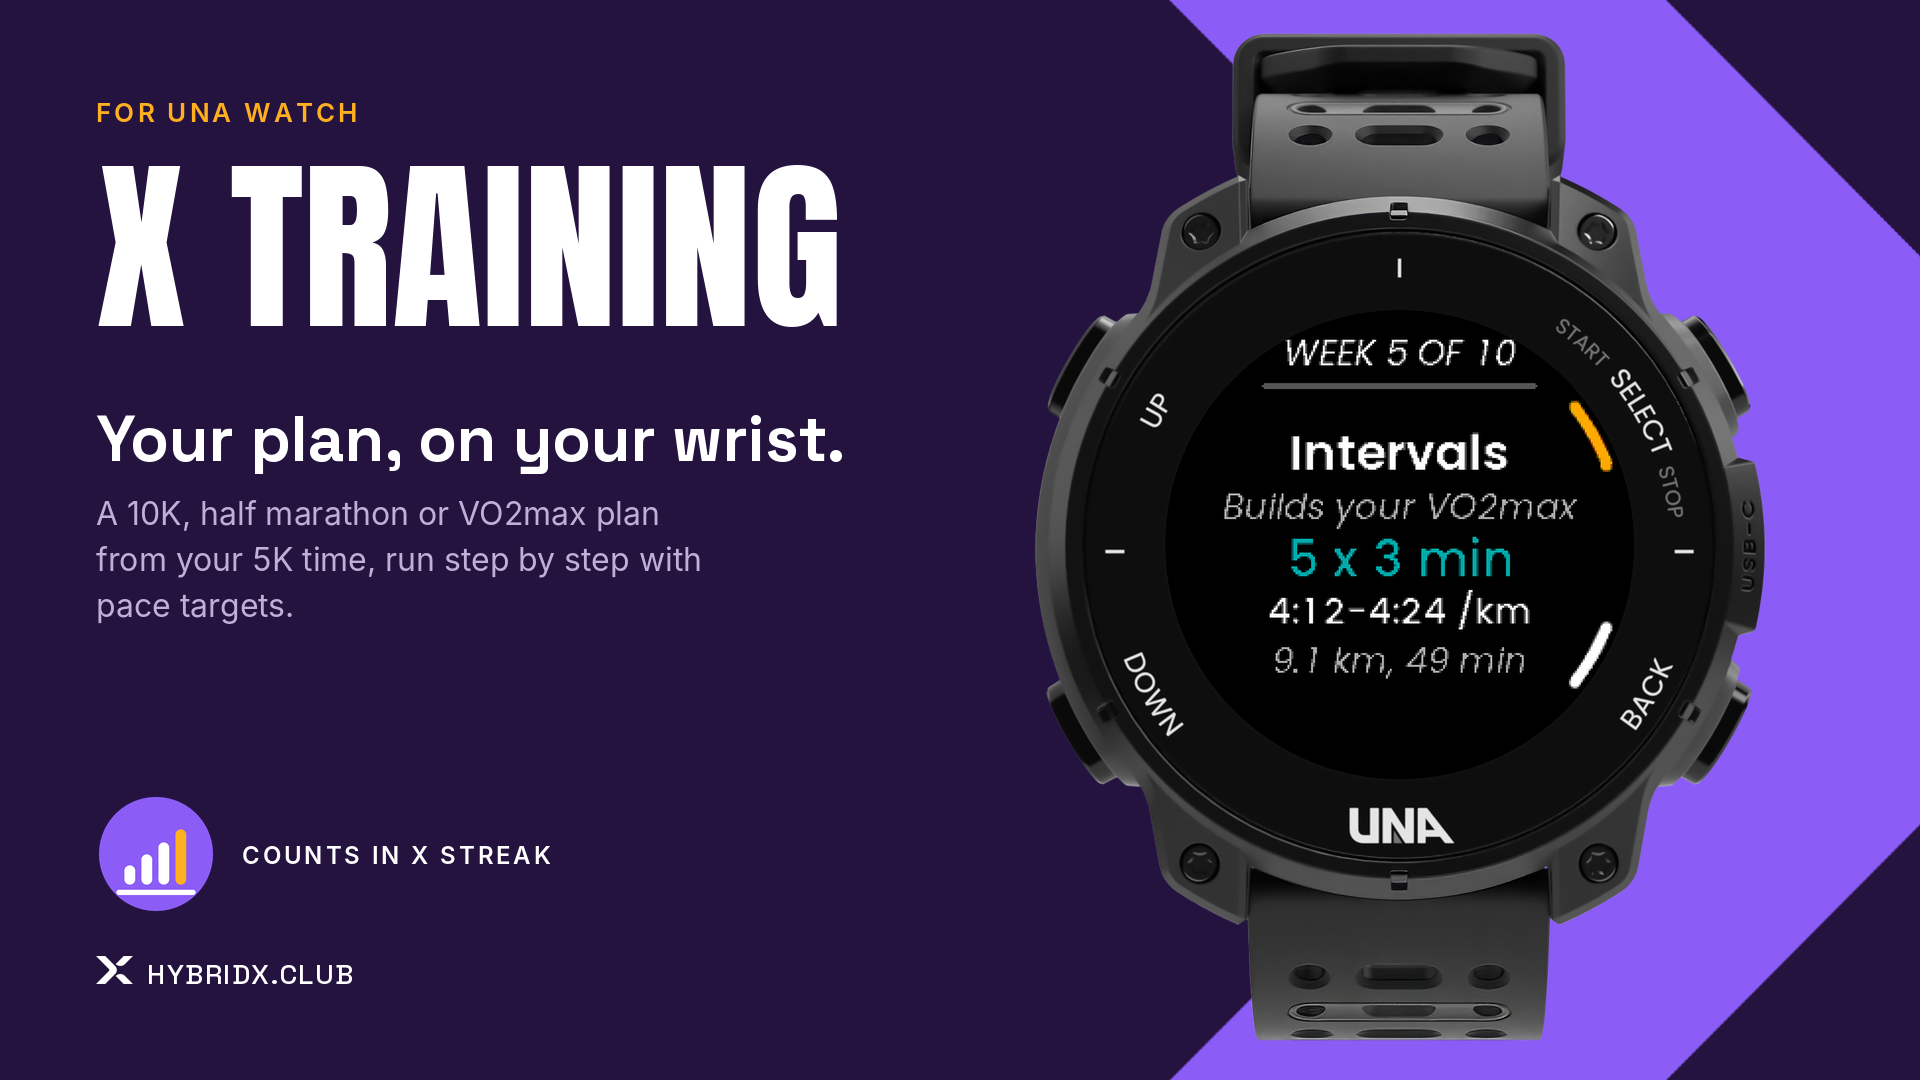
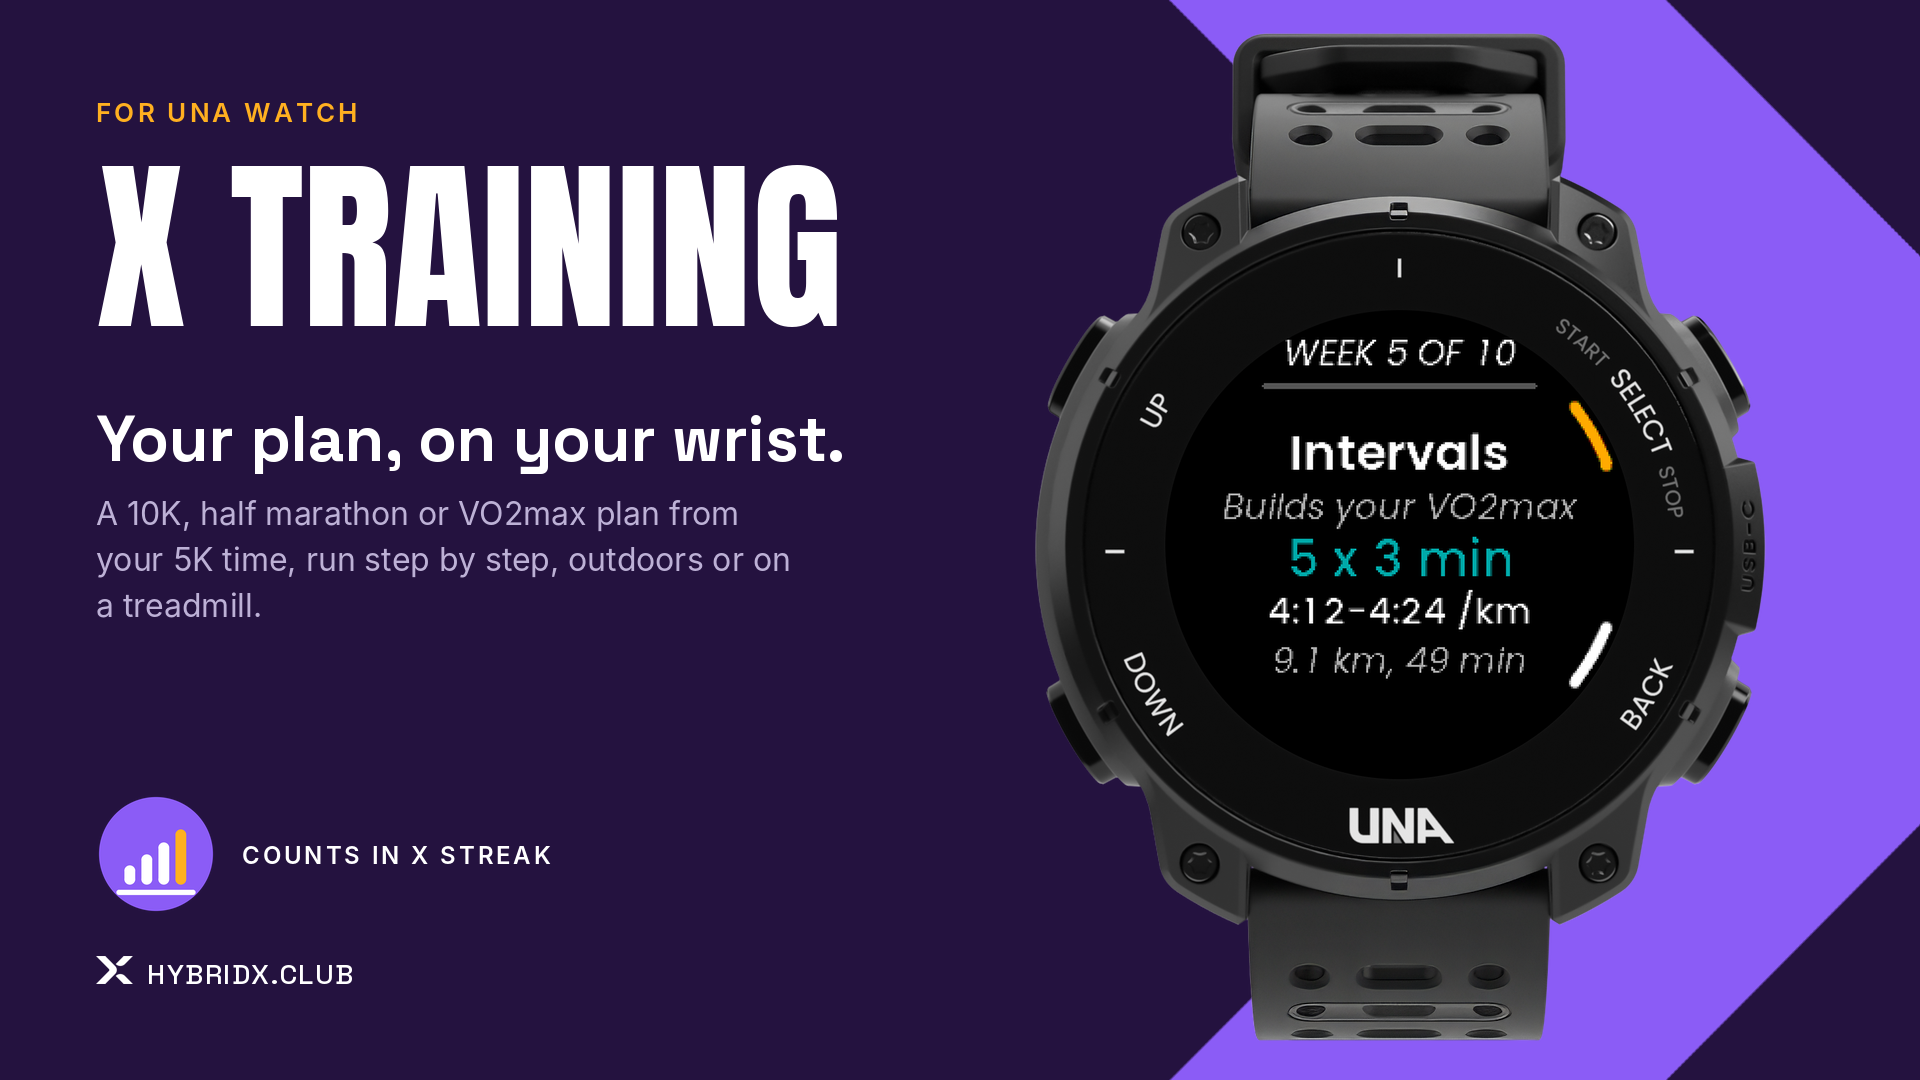
X Training 1.1.0: the store kit (nine previews, new cards, paste-ready listing)
Previews (Resources/previews, nine, all simulator captures): today, the pace gauge, a rep's result, this week, the
paces, Changes, a missed long run offered back, Today on a treadmill with its belt-speed target, and a 400 m rep at
15.1 km/h on a treadmill (the tm-* captures are from TREADMILL=1 sim_plan.sh). Store images (docs/store): the banner
and seven squares in the Cadence colourway, with new cards 'The plan learns' and 'Treadmill, too' (the contrast check
passes: 90 text blocks, none under 4.5:1). LISTING.md has the name, short and long description, the 1.1.0 release notes
and the upload order, ready to paste; STORE_RELEASE.md has the same text with the facts checked and what is not
claimed. The packager passes with the new previews (--expect-version 1.1.0).

Claude-Session: https://claude.ai/code/session_01CNkC8NChMcXmxTJN2uMAsg

Changed region(s): [[0.0312, 0.4583, 0.4062, 0.5806]]

diff --git a/hybridx-link/Tools/Brand/store_images.py b/hybridx-link/Tools/Brand/store_images.py
@@ -131,17 +131,21 @@ LISTINGS = {
     "training": {
         "title": "X TRAINING", "kicker": "For UNA Watch",
         "tagline": "Your plan, on your wrist.",
-        "body": "A 10K, half marathon or VO2max plan from your 5K time, run step by step with pace targets.",
-        "hero": "previews/2-today.png",
+        "body": "A 10K, half marathon or VO2max plan from your 5K time, run step by step, outdoors or on a treadmill.",
+        "hero": "previews/1-today.png",
         "cards": [
             (["TODAY'S", "SESSION,", "READY"], "Open the app and it is there: the session, its target pace and how long it takes.",
-             "previews/2-today.png", False),
+             "previews/1-today.png", False),
             (["PACES FROM", "YOUR 5K"], "Easy, threshold, interval and repetition paces from one time, checked against Daniels' tables.",
              "previews/5-paces.png", True),
             (["EVERY STEP", "TIMED"], "A pace gauge, a buzz when you drift, and each short rep judged on the next step's card.",
-             "previews/6-rep.png", False),
-            (["SEE THE", "WEEKS AHEAD"], "This week from Monday, and the whole plan with X Run's VO2max beside it.",
-             "previews/4-plan.png", True),
+             "previews/3-rep.png", False),
+            (["THE PLAN", "LEARNS"], "Miss a session and it is offered back. A weak week is repeated. Move, skip or pause from Changes.",
+             "previews/7-missed.png", True),
+            (["TREADMILL,", "TOO"], "Switch it on: today's session runs by cadence with no GPS, and the target is the belt speed.",
+             "previews/8-treadmill.png", False),
+            (["SEE THE", "WEEK AHEAD"], "This week from Monday, each day marked as the week goes.",
+             "previews/4-week.png", True),
         ],
     },
     "streak": {

diff --git a/hybridx-link/docs/STORE_RELEASE.md b/hybridx-link/docs/STORE_RELEASE.md
@@ -330,16 +330,18 @@ turbo. Counts in X Streak.
 
 **Not claimed:** power, cadence or wheel speed.
 
-### X Training (a new listing, 16 November 2026)
+### X Training (a new listing, 16 November 2026; 1.1.0 text, 17 November 2026)
 
 **App ID:** `C790FB2FDF322688` (the portal's, Jon, 16 November 2026; in the CMake file, the
-manifest and the simulator). **Tag:** `training-v1.0.0`. **Package:** `HybridXTraining-<v>.zip`
-(`training-store-zip`). **Images:** `hybridx-training/docs/store/`, in the **Cadence** colourway.
+manifest and the simulator). **Tags:** `training-v1.0.0` (published), `training-v1.1.0` (the update).
+**Package:** `HybridXTraining-<v>.zip` (`training-store-zip`). **Images:** `hybridx-training/docs/store/`, in the
+**Cadence** colourway; the paste-ready text and the upload order are in `hybridx-training/docs/store/LISTING.md`
+(keep the two in step).
 
 **Short description:** Training plans on your wrist: a 10K, half marathon or VO2max block from
-your 5K time, run step by step. Counts in X Streak.
+your 5K time, outdoors or on a treadmill. Counts in X Streak.
 
-**Longer description:**
+**Longer description (1.1.0):**
 
 > Your plan, on your wrist.
 >
@@ -349,12 +351,22 @@ your 5K time, run step by step. Counts in X Streak.
 > - **Today's session is ready:** its target pace, distance and time, and what it builds. Press
 >   R1 and it runs step by step: a pace gauge, a buzz when you drift out of range, lead-in beeps,
 >   and each short rep judged on the next step's card.
+> - **The plan learns from what you do:** a session you miss is noted. A missed key session takes a
+>   later quality session's place, a week you mostly missed is repeated, and a missed long run is
+>   offered back the next day. **Changes** moves tomorrow's session to today (or today's to
+>   tomorrow), skips a session, pauses the plan, or ends it.
+> - **Time trials and races update your paces:** after a 5K time trial or a race the watch works out
+>   the 5K it means. Faster times are used from your next run; slower ones, or a big jump, ask first.
+> - **On a treadmill too:** with the Treadmill switch on, today's session runs as UNA's treadmill mode
+>   does: no GPS, speed and distance from your cadence, and the console's distance asked for after you
+>   save. Where a step has a set speed the watch assumes the belt is at it, so a 400 m rep ends after the
+>   time that takes; targets show as belt speeds (km/h or mph).
 > - **Paces from your 5K:** easy, threshold, interval and repetition, with predicted 10K and
 >   half times. Worked out with Daniels' running tables, and checked against them.
 > - **This week and the whole plan:** seven days from Monday with their marks, the weeks by
->   phase, and your progress. Plan changes can be made on the watch too.
-> - Records every run as a normal run: GPS, heart rate, laps (one per step), cadence and step
->   length, and the run detail pages. Syncs to the UNA app and Strava.
+>   phase, and your progress.
+> - Records every run as a normal run: GPS (or the treadmill), heart rate, laps (one per step), cadence and
+>   step length, and the run detail pages. Syncs to the UNA app and Strava.
 > - Counts in **X Streak**, with its training load. Shows X Run's VO2max on the plan screen, and
 >   feeds X Run's VO2max with your runs.
 >
@@ -367,12 +379,17 @@ your 5K time, run step by step. Counts in X Streak.
 - **Zone alerts, easy steps "too fast" only, the rep judging, the held R2:** TP3, NOTES.
 - **Streak and X Run:** `act_training.json` and `training_vo2_*.json` (NOTES "TP4"); passed the
   family check on 16 November 2026.
+- **The plan's memory** (missed sessions, the long-run offer, repeated weeks, moves, skip, pause, recalibration):
+  `PlanRules`, its host tests and the 19 `plan_sim` scenarios Jon agreed on 17 November (NOTES "TP5"); the
+  screens in the simulator.
+- **Treadmill sessions:** `PlanBuilder`'s belt speeds (host-tested for every session and level); in the simulator
+  a 5 x 400 m session took 95 s and 400.0 m a rep and 164 s and 400.0 m a jog, ten laps in all, and the `.fit` is a
+  treadmill file with no positions and the entered distance (NOTES "Treadmill sessions").
 
-**Not claimed yet:** missed-session handling, offers, moves, pauses and recalibration after a time
-trial (TP5: built on 16 November 2026 and simulator-checked, to be claimed once Jon has seen them on
-the watch, then added to the description above); **treadmill sessions** (today's session with the Treadmill
-switch on: cadence speed and distance, the belt assumed at each step's designated speed, the console's distance
-after Save; built on 16 November 2026 and simulator-checked, to be claimed once Jon has seen it on the watch). The glance is its own listing (below), built in TP6.
+**Not claimed:** that the cadence-derived speed matches your belt (it is an estimate until you enter the console's
+distance, and learns from runs of 2 km or more), or that a treadmill time trial or race updates your paces (it does
+not). **Not yet seen on a watch** at the time of writing (Jon tests 17 November): the plan's memory and the treadmill;
+change the text above if the watch says otherwise. The glance is its own listing (below), built in TP6.
 
 ### X Training Glance (TP6: built, not yet on the store)
 
@@ -481,5 +498,6 @@ rules on 17 November. Its "what's new" for the portal:
 >   time its distance takes; targets show as belt speeds (km/h or mph).
 > - Getting ready for a glance that shows today's session (a separate listing, to follow).
 
-The long description above is unchanged until Jon has seen these on the watch (the plan's memory and the
-treadmill sessions are "not claimed yet" above; add them to the description once he has).
+The X Training long description (above, "1.1.0 text") now includes the plan's memory and the treadmill sessions. It
+was written on 17 November before Jon's watch test: check it against what the watch does, and the store images
+(`hybridx-training/docs/store/`, nine previews in `Resources/previews/`) were made on the same day.

diff --git a/hybridx-training/docs/store/LISTING.md b/hybridx-training/docs/store/LISTING.md
@@ -1,0 +1,65 @@
+# X Training 1.1.0: the store listing, paste-ready
+
+For Jon, to copy into the portal. The source of this text, and the checks behind each claim, is
+`hybridx-link/docs/STORE_RELEASE.md` ("X Training"). Written 17 November 2026, **before** Jon's watch test of the plan's
+memory and the treadmill: read it against what the watch does.
+
+## The upload (what goes where)
+
+| Portal | What | From |
+|---|---|---|
+| The app's zip (Version tab, Upload New) | `HybridXTraining-1.1.0.zip` | CI's `training-store-zip`, from the tag `training-v1.1.0` |
+| Icon and screenshots | Inside that zip: `icon.png` and `previews/` (nine 480 x 480 screens) | built by the packager from `Resources/` |
+| Listing images (if the portal asks for them) | The banner first, then the squares | this folder: `01-banner.png` (1920 x 1080), `02` to `07` (1080 x 1080) and `08-the-x-family.png` |
+| Release notes ("what's new") | the text below | |
+| Name, short and long description | the text below | (the name and short description were set when the listing was made) |
+
+## Name
+
+X Training
+
+## Short description
+
+Training plans on your wrist: a 10K, half marathon or VO2max block from your 5K time, outdoors or on a treadmill. Counts in X Streak.
+
+## Longer description
+
+Your plan, on your wrist.
+
+- **Three plans:** a 10K (10 weeks), a half marathon (12) and a VO2max block (8), each at three levels, on the days you run. Give it a recent 5K time in the UNA app, and a race date if you have one.
+- **Today's session is ready:** its target pace, distance and time, and what it builds. Press R1 and it runs step by step: a pace gauge, a buzz when you drift out of range, lead-in beeps, and each short rep judged on the next step's card.
+- **The plan learns from what you do:** a session you miss is noted. A missed key session takes a later quality session's place, a week you mostly missed is repeated, and a missed long run is offered back the next day. **Changes** moves tomorrow's session to today (or today's to tomorrow), skips a session, pauses the plan, or ends it.
+- **Time trials and races update your paces:** after a 5K time trial or a race the watch works out the 5K it means. Faster times are used from your next run; slower ones, or a big jump, ask first.
+- **On a treadmill too:** with the Treadmill switch on, today's session runs as UNA's treadmill mode does: no GPS, speed and distance from your cadence, and the console's distance asked for after you save. Where a step has a set speed the watch assumes the belt is at it, so a 400 m rep ends after the time that takes; targets show as belt speeds (km/h or mph).
+- **Paces from your 5K:** easy, threshold, interval and repetition, with predicted 10K and half times. Worked out with Daniels' running tables, and checked against them.
+- **This week and the whole plan:** seven days from Monday with their marks, the weeks by phase, and your progress.
+- Records every run as a normal run: GPS (or the treadmill), heart rate, laps (one per step), cadence and step length, and the run detail pages. Syncs to the UNA app and Strava.
+- Counts in **X Streak**, with its training load. Shows X Run's VO2max on the plan screen, and feeds X Run's VO2max with your runs.
+
+Made by HybridX. Training advice is general, not medical: stop if something hurts.
+
+## What's new in 1.1.0 (release notes)
+
+- **The plan learns from what you do.** A session you miss is noted; a missed key session takes a later quality session's place, a week you mostly missed is repeated, and a missed long run is offered the next day. A new **Changes** item on the main menu moves tomorrow's session to today (or today's to tomorrow), skips a session, pauses the plan, or ends it.
+- **Time trials and races update your paces.** After a 5K time trial or a race the watch works out the 5K it means: faster times update your paces from your next run; slower ones, or a big jump, ask you first.
+- **Treadmill sessions.** With the Treadmill switch on, today's session runs on the treadmill as UNA's treadmill mode does: no GPS, speed and distance from your cadence, and the console's distance asked for after you save. Where a step has a set speed the watch assumes the belt is at it, so a rep ends after the time its distance takes; targets show as belt speeds (km/h or mph).
+
+## The nine screenshots (in the zip, in this order)
+
+1. `1-today` Today's session: the target, the distance, what it builds
+2. `2-gauge` The pace gauge, with the time left in the step
+3. `3-rep` A short rep's result on the next step's card
+4. `4-week` This week, seven rows from Monday
+5. `5-paces` The paces from your 5K
+6. `6-changes` Changes: move, skip, pause or end the plan
+7. `7-missed` A missed long run, offered back
+8. `8-treadmill` Today on a treadmill: the target as a belt speed
+9. `9-treadmill-rep` A 400 m rep at 15.1 km/h on a treadmill
+
+All are real simulator captures (`docs/experiments/store_previews.sh`).
+
+## Not to claim
+
+That the cadence-derived treadmill speed matches your belt (it is an estimate until you enter the console's distance); that a
+treadmill time trial or race changes your paces (it does not); anything about the glance, which is a separate listing that
+does not exist yet.

diff --git a/hybridx-training/docs/store/README.md b/hybridx-training/docs/store/README.md
@@ -3,16 +3,21 @@
 X Training in the X family's **Cadence** colourway (violet and amber). Made by
 `hybridx-link/Tools/Brand/store_images.py training` (the system, the colours and what is real:
 `hybridx-link/Tools/Brand/README.md`). Upload them in this order: the banner first, then the squares.
+The listing's words, ready to paste, are in `LISTING.md` here.
 
-| File | Size |
-|---|---|
-| `01-banner.png` | 1920 × 1080, the listing's first image |
-| `02-todays-session-ready.png` | 1080 × 1080 |
-| `03-paces-from-your-5k.png` | 1080 × 1080 |
-| `04-every-step-timed.png` | 1080 × 1080 |
-| `05-see-the-weeks-ahead.png` | 1080 × 1080 |
-| `06-the-x-family.png` | 1080 × 1080 |
+| File | Size | Shows |
+|---|---|---|
+| `01-banner.png` | 1920 × 1080, the listing's first image | the watch on Today, "Your plan, on your wrist" |
+| `02-todays-session-ready.png` | 1080 × 1080 | Today's session |
+| `03-paces-from-your-5k.png` | 1080 × 1080 | the paces |
+| `04-every-step-timed.png` | 1080 × 1080 | a rep's result on the step card |
+| `05-the-plan-learns.png` | 1080 × 1080 | a missed long run offered back (1.1.0) |
+| `06-treadmill-too.png` | 1080 × 1080 | Today with the target as a belt speed (1.1.0) |
+| `07-see-the-week-ahead.png` | 1080 × 1080 | this week |
+| `08-the-x-family.png` | 1080 × 1080 | the family |
 
-- The watch screens are real simulator captures (`Resources/previews/`, from
-  `docs/experiments/store_previews.sh`).
-- The headlines are claims from `hybridx-link/docs/STORE_RELEASE.md`'s checked facts.
+- The watch screens are real simulator captures (`Resources/previews/`, nine of them, from
+  `docs/experiments/store_previews.sh`; the treadmill ones from `TREADMILL=1 docs/experiments/sim_plan.sh`).
+- The headlines are claims from `hybridx-link/docs/STORE_RELEASE.md`'s checked facts. The 1.1.0 ones (the plan learns,
+  the treadmill) were written before Jon's watch test of them.
+- The glance's images are in `glance/` (its own listing, not yet created).

diff --git a/hybridx-training/docs/NOTES.md b/hybridx-training/docs/NOTES.md
@@ -1008,3 +1008,11 @@ The CHANGELOG's 1.1.0 holds them (the TP5 line moved out of 1.0.0, which the tag
 new" text is in `hybridx-link/docs/STORE_RELEASE.md`. Not yet seen on a watch: TP5's rules, the glance, the treadmill
 sessions: `hybridx-link/docs/FAMILY_WATCH_TEST.md` sections 7 to 10 are Jon's test. The glance has no portal listing or App ID
 yet, so it is not part of this upload (CI packages it as a dry run).
+
+**The store kit for 1.1.0 (17 November, while Jon tests):** nine 480 x 480 previews in `Resources/previews/` (the three new
+ones are the Changes menu, a missed long run offered back, and Today on a treadmill with its belt-speed target, plus a 400 m rep at
+15.1 km/h; the treadmill captures are `docs/screens/tm-*.png`, from `TREADMILL=1 sim_plan.sh`), a banner and seven squares in
+`docs/store/` (new cards "The plan learns" and "Treadmill, too"; the old "See the weeks ahead" card is now "See the week
+ahead"), and the paste-ready listing, release notes and upload order in `docs/store/LISTING.md` (the source is
+`hybridx-link/docs/STORE_RELEASE.md`). The packager passes with them (`--expect-version 1.1.0`). They must be in the commit the
+tag `training-v1.1.0` points at, because the CI zip is built from the tag: tag the newest commit.

diff --git a/CLAUDE.md b/CLAUDE.md
@@ -591,8 +591,8 @@ lines (60 px; Streak NOTES S4.2). Text and filled rectangles only; letters only 
   `HybridXTraining`; App ID `C790FB2FDF322688` (portal-issued, 16 November 2026; the development
   one was `6E050D707D4D2D32`). The store package: `Utilities/pack-store-zip.sh` (CI artifact
   `training-store-zip`, a dry run until a `training-v*` tag; the tag and the upload are Jon's),
-  previews `docs/experiments/store_previews.sh`, images `docs/store/` (Cadence colourway),
-  `CHANGELOG.md`, and the listing's text in `hybridx-link/docs/STORE_RELEASE.md`.
+  previews `docs/experiments/store_previews.sh` (nine, 1.1.0), images `docs/store/` (Cadence colourway), the paste-ready
+  listing `docs/store/LISTING.md`, `CHANGELOG.md`, and the listing's text in `hybridx-link/docs/STORE_RELEASE.md`.
 - **Commands:**
   - host tests: `cmake -S hybridx-training/Tests/Host -B hybridx-training/build-tests && cmake --build hybridx-training/build-tests && hybridx-training/build-tests/hybridx-training-host-tests`
     (`ctest --test-dir hybridx-training/build-tests` also checks the generated plan header);
